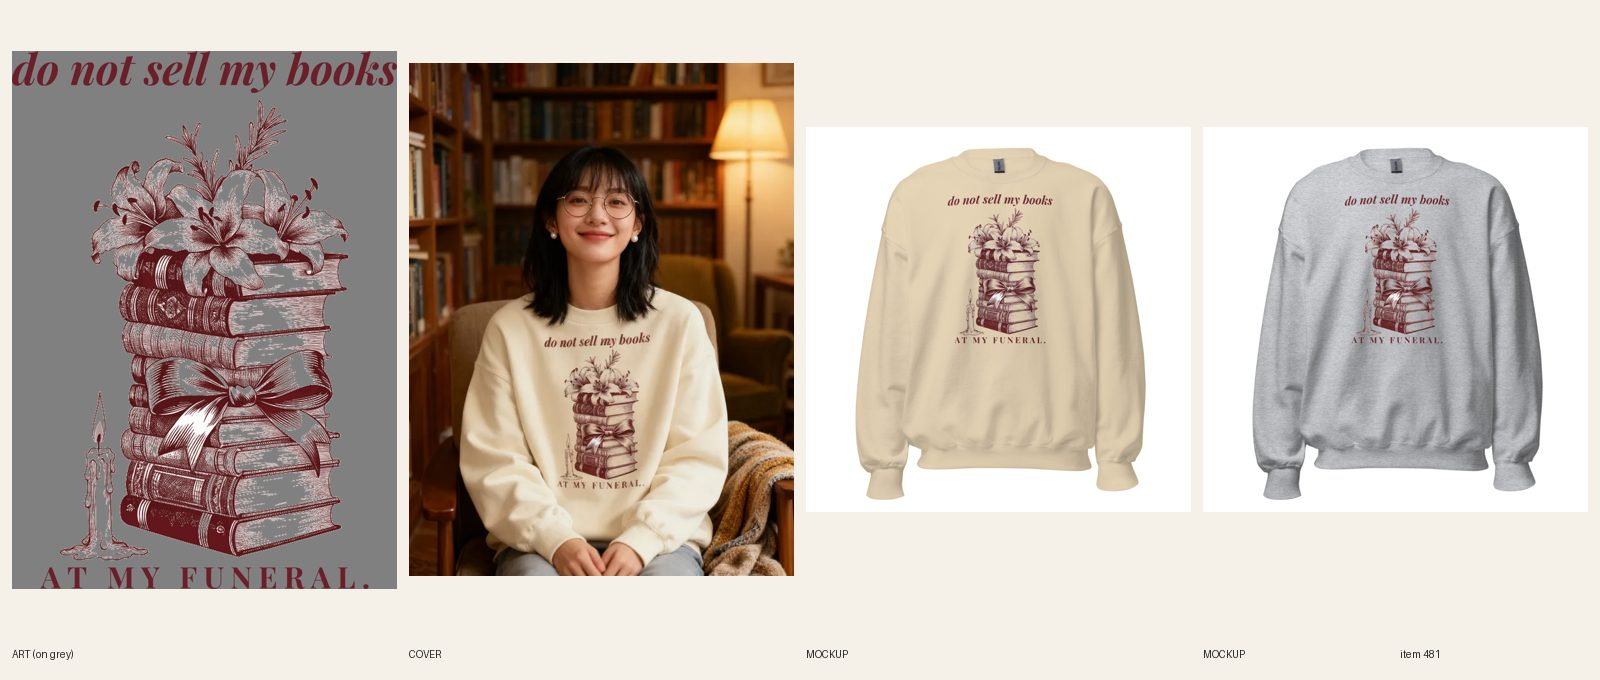
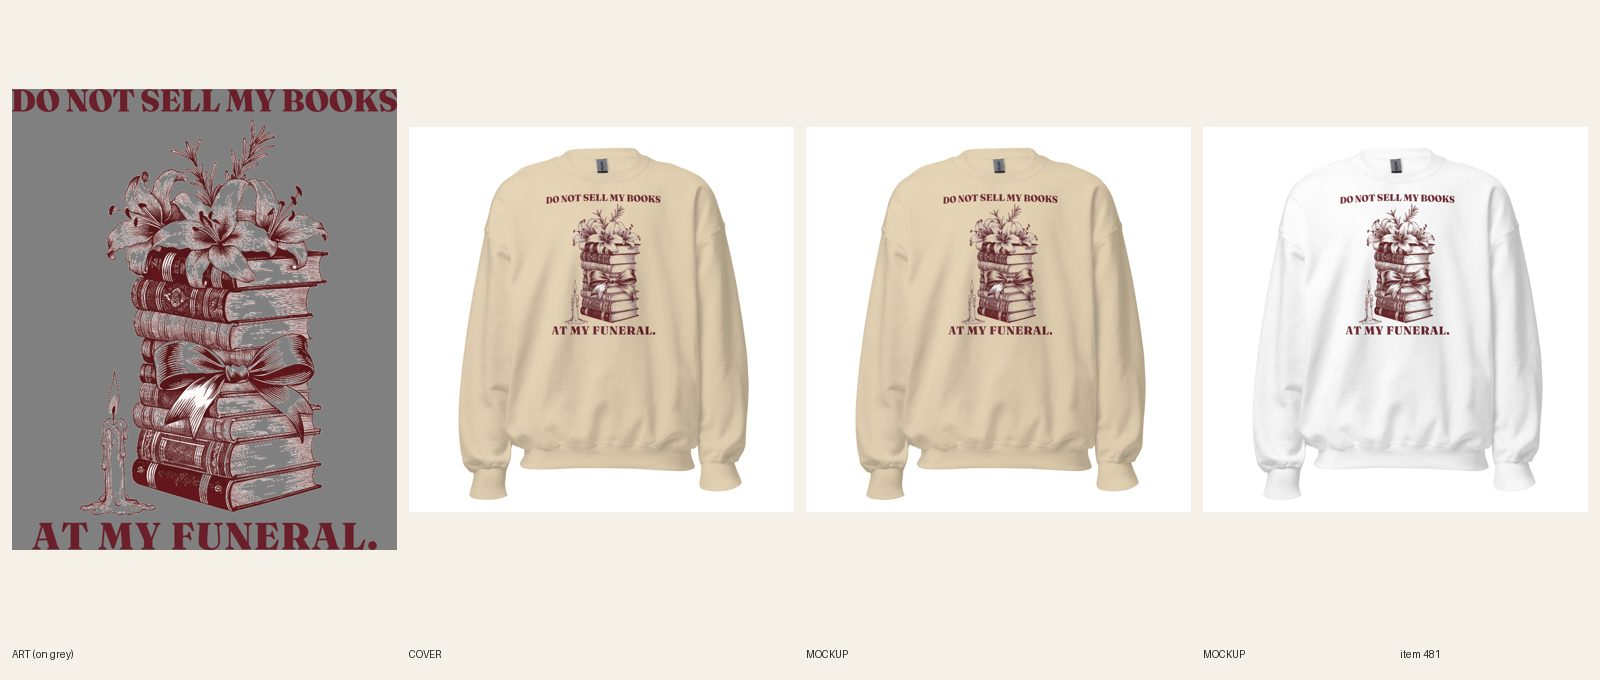
[A] review 481 Do Not Sell My Books crewneck (type redo)
Claude-Session: https://claude.ai/code/session_01PwajpCcCM8YbjnyzJecAJg

diff --git a/docs/pipeline/481-do-not-sell-my-books-crewneck.md b/docs/pipeline/481-do-not-sell-my-books-crewneck.md
@@ -1,4 +1,4 @@
-status: BUILDING [A] 2026-10-19 20:59 UTC
+status: REVIEW
 shopify: gid://shopify/Product/15363978068272
 lane: A
 type: new
@@ -27,3 +27,4 @@ kd: 20
 - 2026-10-17 19:13 UTC director: approved. ACTIVE, published to Online Store + Headless + Google & YouTube; audit --handle PASS (0 warn). LIVE.
   - Watch item: on the cover the bottom line may read 'AT MY FUNERAL..' (an extra dot, maybe a JPEG artifact at sheet size). Lane A: on the next cover pass, check the full-size cover. If the dot is really there, composite the exact print per R6.9.
 - 2026-10-18 17:22 UTC director: QUALITY RESET grade B (type only), REDO. The product stays ACTIVE (same handle, URL, title keyword). Keep the line "do not sell my books / AT MY FUNERAL." and the art. 1. Type: Thin lowercase italic serif headline; thin spaced serif bottom line, neither heavy. 2. Quality reset type bar (docs/backlog/quality-reset.md, 'The new bar'): headline at least 90% of the art width, heavy, colors pulled from the art; second line at least 45% of the headline's height, never a thin script on a dark or mid garment; use the lettering as a shape (arch, stacked lockup, words breaking into the art), not a plain bar above and a script line below; no font used on more than 1 in 6 of the last 30 designs. 3. New print file means a new cover per R6.10 and a fresh review sheet (R7.7). While quality-reset.md says PAUSED, only lane A builds, and only the samples step 2 names.
+- 2026-10-19 21:12 UTC builder [A]: REDO type-only done (director grade B). Same art; DO NOT SELL MY BOOKS in Fraunces Black (one line, 97% of print width, burgundy #6b1f2a) + AT MY FUNERAL. Fraunces Black, art 60%, FW 1650 TOP 75 (crewneck). One file for all colors: ink is burgundy, no cream fills, so no light file needed. File 1089882256, 24/24 resynced, back logo kept. 4 fronts replaced in place (Sand, Sport Grey, White, Ash), phone-size read ok. Story lettering sentence updated; FAQs 5, Dec 8 kept; no R8.3 opener. Plain product shot (handle already in retired-covers.json). audit --handle PASS 0 warn. fal $0. Sheet docs/review/481.jpg.

diff --git a/docs/intake-log.md b/docs/intake-log.md
@@ -1,7 +1,8 @@
 RUNNING director since 2026-10-19 21:11 UTC
-RUNNING lane A since 2026-10-19 20:59 UTC
 2026-10-19 21:12 UTC — [B] Builder run: redid #544 Men's Gym Rack Your Weights tee (type only, port of #625: Bevan stacked headline + heavy gold italic, same art, FW 1650 TOP 75, file 1089881607, 35/35 relinked, 5 fronts replaced in place, copy updated, plain product shot). REVIEW. fal $0. 1 redo per run cap reached. Lock released.
 
+RUNNING lane B since 2026-10-19 21:00 UTC
+2026-10-19 21:12 UTC — [A] Builder run: redid #481 Women's Do Not Sell My Books crewneck (type only: Fraunces Black full-width headline + bold AT MY FUNERAL., same art, FW 1650, 24/24 resynced, 4 fronts replaced in place, plain product shot). REVIEW. fal $0. Lock released.
 
 2026-10-19 21:26 UTC — [E] Builder run: redid #578 Unisex Pitbull Scary Dog, Afraid of the Vacuum tee (type only: Bowlby One cream SCARY DOG. + Anton mustard AFRAID OF THE VACUUM. at full art width, same art, FW 1600 TOP 75, file 1089860399, 42/42 resynced, 6 fronts replaced in place, copy updated, plain product shot). REVIEW. fal $0. 1 redo per run cap reached. Lock released.
 
